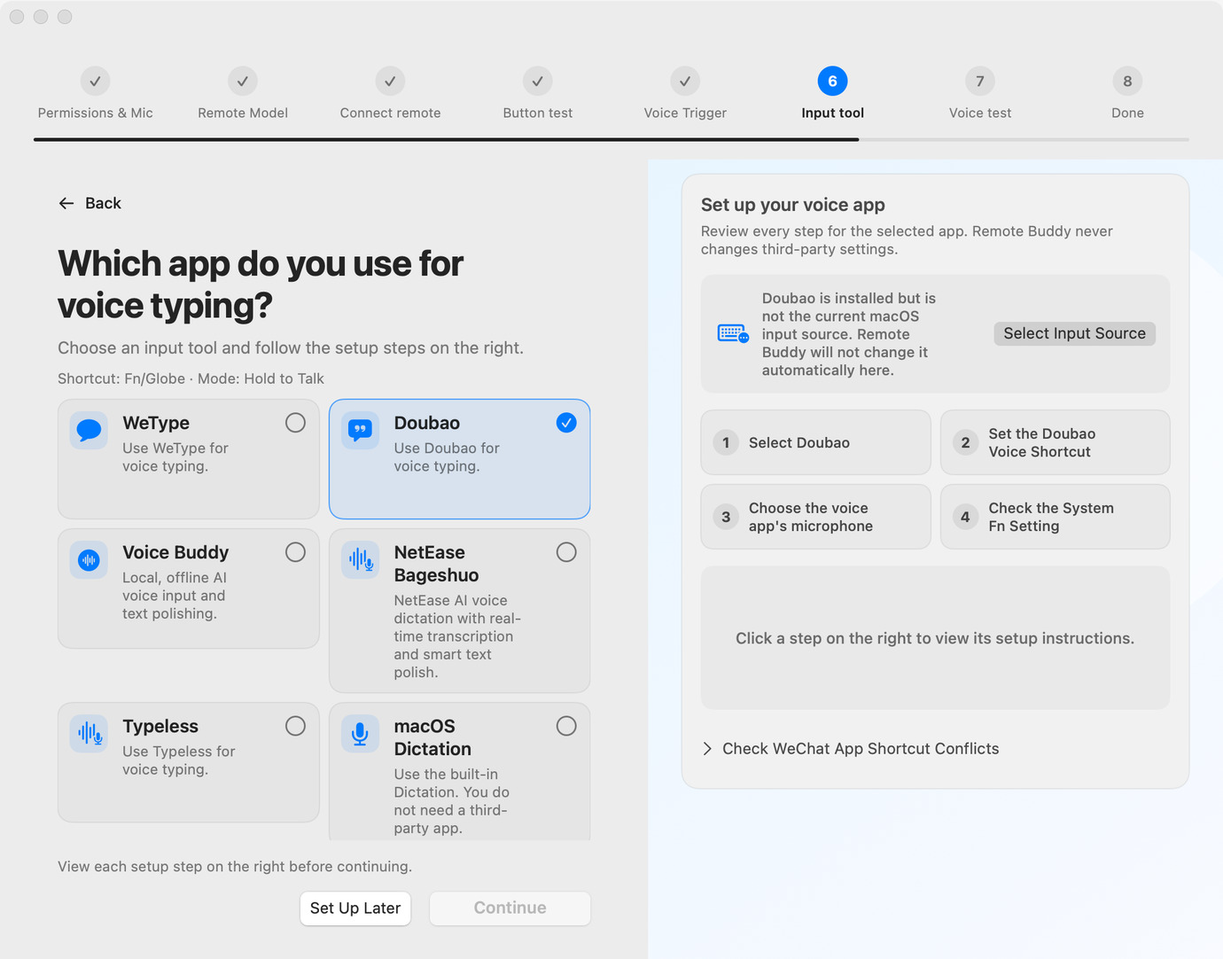
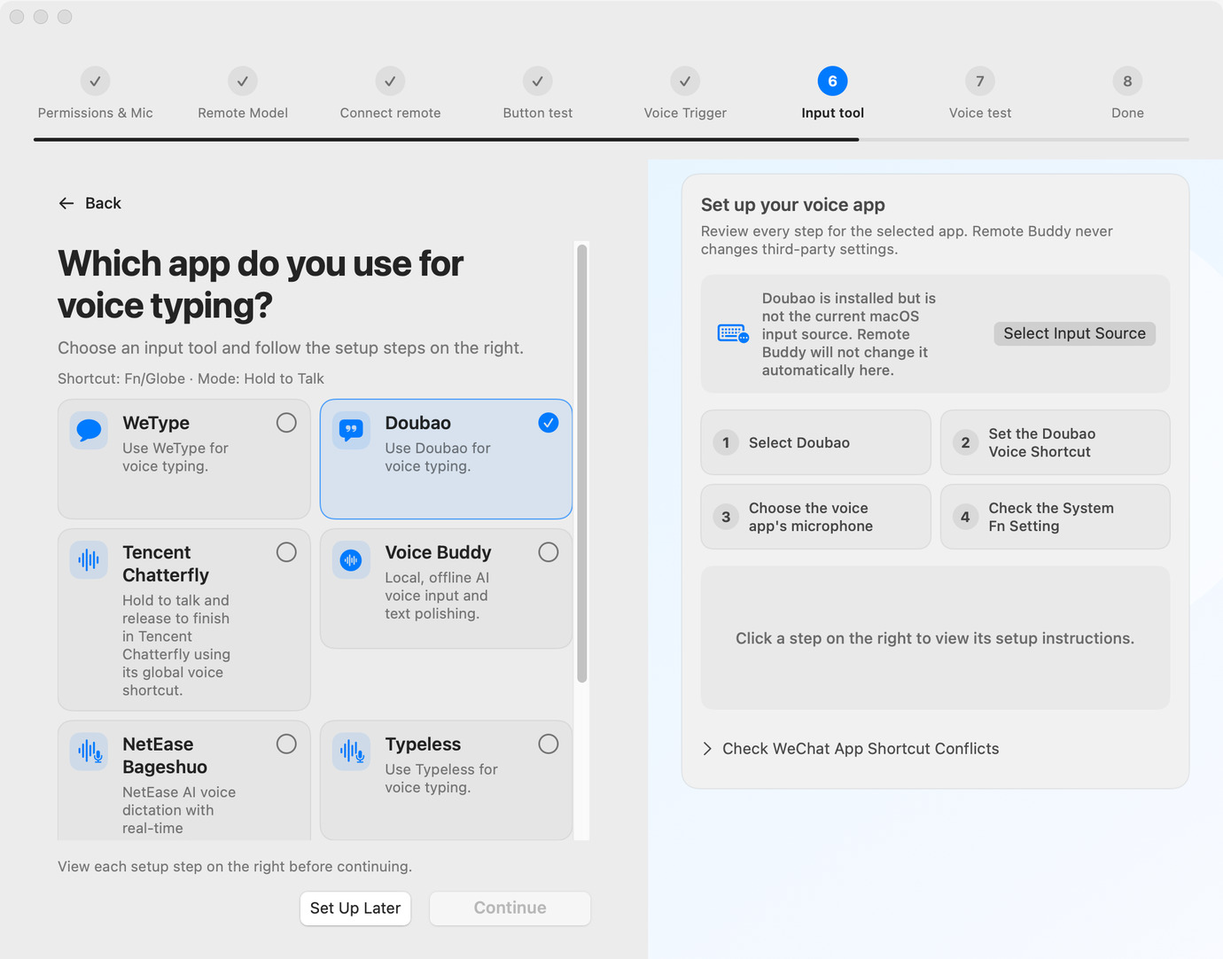
fix(integration): alert missing voice apps, add Voice Buddy link, and refresh screenshots (#210)
* fix(integration): alert when selected voice app is uninstalled

* feat(integration): add Voice Buddy homepage link to catalog card

* docs(pages): refresh integration screenshots and input tool copy

diff --git a/pages/index.html b/pages/index.html
@@ -85,7 +85,7 @@
   <div class="demo-links"><span>了解遥控搭子的功能与使用流程。</span><a class="text-link" href="assets/video/Remote_Buddy_Demo_Natural_zh-CN.mp4?v=261116screens" download>下载视频 ↓</a></div>
 </section>
 <section class="section wrap start" id="start"><div><p class="eyebrow">开始使用</p><h2 class="section-title">安装后，跟着向导开始。</h2><p>应用和虚拟麦克风驱动包含在同一个安装包中，可从<a href="downloads/index.html">官网镜像</a>或 <a href="https://github.com/zfdang/remote-buddy/releases/latest">GitHub Releases</a> 下载。</p><a class="text-link" href="#troubleshooting">查看常见问题排障 ↓</a></div><ol class="steps"><li><span>01</span><div><h3>安装并打开</h3><p>选择适合 Mac 芯片的安装包（PKG）完成安装，再从“应用程序”打开 Remote Buddy。</p></div></li><li><span>02</span><div><h3>授权与驱动就绪</h3><p>按向导授权蓝牙、输入监控和辅助功能，并确认 Remote Buddy Mic 虚拟麦克风驱动就绪。</p></div></li><li><span>03</span><div><h3>连接、选热键与配工具</h3><p>连接遥控器并测试按键，选择发送给输入工具的语音热键（Fn 或自定义快捷键）与点按方式，再在输入工具中完成配置。</p></div></li><li><span>04</span><div><h3>试说一句话</h3><p>通过向导中的语音测试使配置生效，点击要输入文字的位置，按住遥控器语音键说话、松开结束；点按模式则自动按热键开始与结束。</p></div></li></ol></section>
-<section class="section compatibility" id="compatibility"><div class="wrap"><p class="eyebrow">兼容范围</p><h2 class="section-title">查看设备与输入工具的适配情况。</h2><div class="compat-grid"><article><h3>遥控器</h3><div class="tools hardware"><span>小米蓝牙遥控器 2 / 2 Pro</span><span>T1 飞鼠键盘语音遥控器</span><span>Chromecast Voice Remote（G9N9N）</span><span>Google TV Streamer Voice Remote（GY3LE）</span><span>Apple Siri Remote</span></div><p>小米 2 / 2 Pro 与 T1 已适配；G9N9N 已验证版本支持语音输入及普通按键映射，版本识别见设备指南。GY3LE 与 Siri Remote 计划支持。</p><a class="text-link" href="device.html">查看各型号支持与选购指南 →</a></article><article><h3>输入工具</h3><div class="tools"><span>微信输入法</span><span>豆包输入法</span><span><a href="https://chatterfly.tencent.com/">腾讯Chatterfly</a></span><span><a href="https://myvoicebuddy.com/">Voice Buddy（语音搭子）</a></span><span>网易叭哥说</span><span>Typeless</span><span>macOS 听写</span><span>其他工具</span></div><p>选择对应工具，按向导配置 Remote Buddy Mic 和语音快捷键，再实际试说一句。</p><p class="muted">输入工具需要支持选择麦克风和设置语音快捷键。具体设置随工具版本而异，请通过向导试说确认。</p><div class="companion-box"><div class="companion-head"><span class="companion-badge">同系列自研工具</span><strong class="companion-name">Voice Buddy（语音搭子）</strong></div><p>基于 Apple Silicon 的 100% 本地离线 AI 语音输入与文本润色工具，声音与文字全程不上传云端。支持按住说话与点按切换，配合 Remote Buddy Mic 和 Fn 触发开箱即用。</p><a class="text-link" href="https://myvoicebuddy.com/">了解并下载 Voice Buddy ↗</a></div></article></div></div></section>
+<section class="section compatibility" id="compatibility"><div class="wrap"><p class="eyebrow">兼容范围</p><h2 class="section-title">查看设备与输入工具的适配情况。</h2><div class="compat-grid"><article><h3>遥控器</h3><div class="tools hardware"><span>小米蓝牙遥控器 2 / 2 Pro</span><span>T1 飞鼠键盘语音遥控器</span><span>Chromecast Voice Remote（G9N9N）</span><span>Google TV Streamer Voice Remote（GY3LE）</span><span>Apple Siri Remote</span></div><p>小米 2 / 2 Pro 与 T1 已适配；G9N9N 已验证版本支持语音输入及普通按键映射，版本识别见设备指南。GY3LE 与 Siri Remote 计划支持。</p><a class="text-link" href="device.html">查看各型号支持与选购指南 →</a></article><article><h3>输入工具</h3><div class="tools"><span>微信输入法</span><span>豆包输入法</span><span><a href="https://chatterfly.tencent.com/">腾讯Chatterfly</a></span><span><a href="https://myvoicebuddy.com/">Voice Buddy（语音搭子）</a></span><span>网易叭哥说</span><span>Typeless</span><span>macOS 听写</span><span>其他工具</span></div><p>支持系统输入法与全局快捷键语音工具：按向导配置 Remote Buddy Mic、语音热键与触发模式（按住或点按），再实际试说一句确认。</p><p class="muted">输入工具需支持选择麦克风并配置语音快捷键；腾讯Chatterfly 仅支持按住说话并需开启快捷键全局可用（无需切换系统输入法）。具体设置随工具版本而异，请通过向导试说确认。</p><div class="companion-box"><div class="companion-head"><span class="companion-badge">同系列自研工具</span><strong class="companion-name">Voice Buddy（语音搭子）</strong></div><p>基于 Apple Silicon 的 100% 本地离线 AI 语音输入与文本润色工具，声音与文字全程不上传云端。支持按住说话与点按切换，配合 Remote Buddy Mic 和 Fn 触发开箱即用。</p><a class="text-link" href="https://myvoicebuddy.com/">了解并下载 Voice Buddy ↗</a></div></article></div></div></section>
 <section class="section wrap troubleshooting" id="troubleshooting" aria-labelledby="troubleshooting-title">
   <p class="eyebrow">常见问题</p>
   <h2 class="section-title" id="troubleshooting-title">遇到按键或 Fn 语音没反应？先排查这几项。</h2>
@@ -101,7 +101,7 @@
   <details class="troubleshooting-card">
     <summary><span class="troubleshooting-question">选择 Fn 键触发语音，却没反应或被微信截获？检查微信全局快捷键占用。</span></summary>
     <div class="troubleshooting-body">
-      <p>macOS 版微信（WeChat App）可能在后台注册了全局 <strong>Fn</strong> 快捷键（例如全局语音输入或其他功能热键）。一旦被微信占用，按下遥控器发送的 <strong>Fn</strong> 会先被微信拦截，导致你选择的第三方语音输入工具（如豆包、微信输入法、Typeless 等）无法收到触发信号。</p>
+      <p>macOS 版微信（WeChat App）可能在后台注册了全局 <strong>Fn</strong> 快捷键（例如全局语音输入或其他功能热键）。一旦被微信占用，按下遥控器发送的 <strong>Fn</strong> 会先被微信拦截，导致你选择的第三方语音输入工具（如豆包、微信输入法、腾讯Chatterfly、Typeless 等）无法收到触发信号。</p>
       <ol><li>打开桌面端<strong>微信 → 设置 → 快捷键</strong>（部分版本在聊天/通用设置内）。</li><li>检查是否存在占用 <strong>Fn</strong>（或 <strong>🌐 地球键</strong>）的全局快捷键，尤其是语音输入相关热键。</li><li>如有冲突，请更换或<strong>仅清除冲突的 Fn 快捷键</strong>（无需修改微信其他快捷键）。</li><li>返回目标输入工具或遥控搭子的向导测试页，重新按下遥控器语音键试说一句。</li></ol>
       <p>如果无法取消微信对 Fn 的占用，也可以在“输入法集成 → 语音热键”中改用 <strong>Ctrl (⌃) + Option (⌥) + V</strong> 等其他组合快捷键。</p>
     </div>
@@ -140,6 +140,6 @@
 </section>
 </main>
 <footer class="wrap"><div><strong>Remote Buddy</strong><p>用遥控器，随手说。</p></div><div class="footer-links"><a href="downloads/index.html">官网下载</a><a href="device.html">支持设备</a><a href="https://github.com/zfdang/remote-buddy/releases">GitHub Releases</a><a href="https://github.com/zfdang/remote-buddy/blob/main/README.md">项目文档</a><a href="https://github.com/zfdang/remote-buddy/issues">反馈</a><a href="https://github.com/zfdang/remote-buddy/blob/main/LICENSE">GPL-3.0-only</a></div></footer>
-<script src="demo.js?v=261116screens"></script>
+<script src="demo.js?v=261118screens"></script>
 </body>
 </html>

diff --git a/pages/index.en.html b/pages/index.en.html
@@ -85,7 +85,7 @@
   <div class="demo-links"><span>An overview of Remote Buddy’s features and setup.</span><a class="text-link" href="assets/video/Remote_Buddy_Demo_Natural_zh-CN.mp4?v=261116screens" download>Download video ↓</a></div>
 </section>
 <section class="section wrap start" id="start"><div><p class="eyebrow">GET STARTED</p><h2 class="section-title">Install, then follow the setup guide.</h2><p>One installer includes the app and virtual microphone driver. Download via the <a href="downloads/index.en.html">website mirror</a> or <a href="https://github.com/zfdang/remote-buddy/releases/latest">GitHub Releases</a>.</p><a class="text-link" href="#troubleshooting">Common troubleshooting ↓</a></div><ol class="steps"><li><span>01</span><div><h3>Install and open</h3><p>Download the PKG for your Mac architecture, finish installation, and open Remote Buddy in Applications.</p></div></li><li><span>02</span><div><h3>Permissions &amp; audio driver</h3><p>Follow the guide for Bluetooth, Input Monitoring, Accessibility permissions, and Remote Buddy Mic readiness.</p></div></li><li><span>03</span><div><h3>Connect, shortcut, &amp; tool</h3><p>Pair your remote, test buttons, choose a voice shortcut (Fn/Globe or custom) and Hold/Tap mode, then configure your input tool to match.</p></div></li><li><span>04</span><div><h3>Try a sentence</h3><p>Pass the voice test to activate the setup, then click where you want to type and speak using the remote voice button.</p></div></li></ol></section>
-<section class="section compatibility" id="compatibility"><div class="wrap"><p class="eyebrow">COMPATIBILITY</p><h2 class="section-title">Check device and input tool compatibility.</h2><div class="compat-grid"><article><h3>Remotes</h3><div class="tools hardware"><span>Xiaomi Bluetooth Remote 2 / 2 Pro</span><span>T1 Air-Mouse &amp; Keyboard Voice Remote</span><span>Chromecast Voice Remote (G9N9N)</span><span>Google TV Streamer Voice Remote (GY3LE)</span><span>Apple Siri Remote</span></div><p>Xiaomi 2 / 2 Pro and T1 are supported. Validated G9N9N versions support voice input and button mapping; see the device guide for identification. GY3LE and Siri Remote support is planned.</p><a class="text-link" href="device_en.html">See support &amp; buying guide by model →</a></article><article><h3>Input Tools</h3><div class="tools"><span>WeType</span><span>Doubao</span><span><a href="https://chatterfly.tencent.com/">Tencent Chatterfly</a></span><span><a href="https://myvoicebuddy.com/en.html">Voice Buddy</a></span><span>NetEase Bageshuo</span><span>Typeless</span><span>macOS Dictation</span><span>Other tools</span></div><p>Choose your tool, follow the guide to configure Remote Buddy Mic and the voice shortcut, then try a spoken sentence.</p><p class="muted">Your tool needs microphone selection and a configurable voice shortcut. Settings vary by version; use the guide’s voice test to check your setup.</p><div class="companion-box"><div class="companion-head"><span class="companion-badge">COMPANION APP</span><strong class="companion-name">Voice Buddy</strong></div><p>Our 100% local, offline AI speech-to-text and text-polishing app for Apple Silicon—no cloud uploads required. Supports both Hold and Toggle modes and works out of the box with Remote Buddy Mic and Fn trigger.</p><a class="text-link" href="https://myvoicebuddy.com/en.html">Explore Voice Buddy (myvoicebuddy.com) ↗</a></div></article></div></div></section>
+<section class="section compatibility" id="compatibility"><div class="wrap"><p class="eyebrow">COMPATIBILITY</p><h2 class="section-title">Check device and input tool compatibility.</h2><div class="compat-grid"><article><h3>Remotes</h3><div class="tools hardware"><span>Xiaomi Bluetooth Remote 2 / 2 Pro</span><span>T1 Air-Mouse &amp; Keyboard Voice Remote</span><span>Chromecast Voice Remote (G9N9N)</span><span>Google TV Streamer Voice Remote (GY3LE)</span><span>Apple Siri Remote</span></div><p>Xiaomi 2 / 2 Pro and T1 are supported. Validated G9N9N versions support voice input and button mapping; see the device guide for identification. GY3LE and Siri Remote support is planned.</p><a class="text-link" href="device_en.html">See support &amp; buying guide by model →</a></article><article><h3>Input Tools</h3><div class="tools"><span>WeType</span><span>Doubao</span><span><a href="https://chatterfly.tencent.com/">Tencent Chatterfly</a></span><span><a href="https://myvoicebuddy.com/en.html">Voice Buddy</a></span><span>NetEase Bageshuo</span><span>Typeless</span><span>macOS Dictation</span><span>Other tools</span></div><p>Supports both input methods and global-shortcut voice apps: follow the guide to configure Remote Buddy Mic, your voice shortcut, and Hold/Tap mode, then try a spoken sentence.</p><p class="muted">Your tool needs microphone selection and a configurable voice shortcut. Tencent Chatterfly uses hold-to-talk with its global shortcut enabled and does not switch your system input source; settings vary by tool version.</p><div class="companion-box"><div class="companion-head"><span class="companion-badge">COMPANION APP</span><strong class="companion-name">Voice Buddy</strong></div><p>Our 100% local, offline AI speech-to-text and text-polishing app for Apple Silicon—no cloud uploads required. Supports both Hold and Toggle modes and works out of the box with Remote Buddy Mic and Fn trigger.</p><a class="text-link" href="https://myvoicebuddy.com/en.html">Explore Voice Buddy (myvoicebuddy.com) ↗</a></div></article></div></div></section>
 <section class="section wrap troubleshooting" id="troubleshooting" aria-labelledby="troubleshooting-title">
   <p class="eyebrow">TROUBLESHOOTING</p>
   <h2 class="section-title" id="troubleshooting-title">Buttons or Fn voice trigger not working? Check these first.</h2>
@@ -101,7 +101,7 @@
   <details class="troubleshooting-card">
     <summary><span class="troubleshooting-question">Chose Fn as your voice shortcut, but WeChat hijacks it? Clear WeChat’s global Fn shortcut.</span></summary>
     <div class="troubleshooting-body">
-      <p>The WeChat macOS desktop app can register <strong>Fn</strong> as a global shortcut (such as global voice input or another hotkey). While WeChat holds that global shortcut, pressing your remote’s voice button sends <strong>Fn</strong> to WeChat instead of your chosen input tool (Doubao, WeType, Typeless, etc.).</p>
+      <p>The WeChat macOS desktop app can register <strong>Fn</strong> as a global shortcut (such as global voice input or another hotkey). While WeChat holds that global shortcut, pressing your remote’s voice button sends <strong>Fn</strong> to WeChat instead of your chosen input tool (Doubao, WeType, Tencent Chatterfly, Typeless, etc.).</p>
       <ol><li>Open the <strong>WeChat desktop app → Settings → Shortcuts</strong>.</li><li>Check whether any global shortcut—especially a voice shortcut—is bound to <strong>Fn</strong> (or the <strong>🌐 Globe key</strong>).</li><li>If it conflicts, reassign or <strong>clear only the conflicting Fn shortcut</strong> (you can leave all other WeChat shortcuts as-is).</li><li>Return to your input tool or Buddy’s Voice Test step and press the remote voice button again.</li></ol>
       <p>If you prefer to keep WeChat’s Fn binding, switch Buddy’s voice shortcut in <strong>Input Tools → Voice Shortcut</strong> to another combination such as <strong>Ctrl (⌃) + Option (⌥) + V</strong>.</p>
     </div>
@@ -140,6 +140,6 @@
 </section>
 </main>
 <footer class="wrap"><div><strong>Remote Buddy</strong><p>Voice input, at the press of a button.</p></div><div class="footer-links"><a href="downloads/index.en.html">Website Download</a><a href="device_en.html">Supported Remotes</a><a href="https://github.com/zfdang/remote-buddy/releases">GitHub Releases</a><a href="https://github.com/zfdang/remote-buddy/blob/main/README.en.md">Docs &amp; References</a><a href="https://github.com/zfdang/remote-buddy/issues">Feedback</a><a href="https://github.com/zfdang/remote-buddy/blob/main/LICENSE">GPL-3.0-only</a></div></footer>
-<script src="demo.js?v=261116screens"></script>
+<script src="demo.js?v=261118screens"></script>
 </body>
 </html>

diff --git a/pages/demo.js b/pages/demo.js
@@ -62,9 +62,9 @@ button.addEventListener('blur', stop);
         title: '输入法集成',
         badge: '语音工具',
         windowTitle: '输入法与语音工具集成 · Remote Buddy',
-        src: 'assets/screenshots/integration-zh.jpg?v=261117screens',
-        alt: 'Remote Buddy 输入法与语音工具集成界面：当前语音触发方式及受支持语音工具的配置入口',
-        desc: '查看当前语音触发方式（热键与点按模式）和已选择的输入工具，通过向导调整热键、配置输入工具并完成语音测试生效。'
+        src: 'assets/screenshots/integration-zh.jpg?v=261118screens',
+        alt: 'Remote Buddy 输入法与语音工具集成界面：当前语音触发方式及微信输入法、豆包、腾讯Chatterfly、Voice Buddy 等受支持语音工具列表',
+        desc: '查看当前语音触发方式（热键与点按模式）和已选择的输入工具，支持微信输入法、豆包输入法、腾讯Chatterfly、Voice Buddy、网易叭哥说、Typeless、macOS 听写等；通过向导调整热键、配置工具并完成语音测试生效。'
       },
       {
         title: '按键映射',
@@ -144,9 +144,9 @@ button.addEventListener('blur', stop);
         title: '第 6 步 · 输入工具',
         badge: '向导 · 工具设置',
         windowTitle: '输入工具 · 首次使用向导',
-        src: 'assets/screenshots/wizard-tool-zh.jpg?v=261117screens',
-        alt: '首次使用向导：输入工具选择与图文分步设置指引，包含微信输入法、豆包等操作步骤',
-        desc: '选择输入法或听写工具，按右侧步骤完成麦克风与对应语音热键及录音模式设置；也可点击一键切换当前系统输入法。'
+        src: 'assets/screenshots/wizard-tool-zh.jpg?v=261118screens',
+        alt: '首次使用向导：输入工具选择与图文分步设置指引，包含微信输入法、豆包、腾讯Chatterfly 等工具',
+        desc: '选择输入法或语音工具（含微信输入法、豆包输入法、腾讯Chatterfly、Voice Buddy、网易叭哥说、Typeless、macOS 听写等），按右侧图文步骤配置麦克风与语音热键；需系统输入法切换的工具可一键切换。'
       },
       {
         title: '第 7 步 · 语音测试',
@@ -189,9 +189,9 @@ button.addEventListener('blur', stop);
         title: 'Voice Tools',
         badge: 'Integrations',
         windowTitle: 'Voice Tools Integration · Remote Buddy',
-        src: 'assets/screenshots/integration-en.jpg?v=261117screens',
-        alt: 'Remote Buddy Voice Tools interface: current voice trigger and setup guides for supported voice tools',
-        desc: 'Review the active voice trigger shortcut, tap mode, and selected input tool, then launch the integration wizard to customize hotkeys, configure your tool, and verify with a voice test.'
+        src: 'assets/screenshots/integration-en.jpg?v=261118screens',
+        alt: 'Remote Buddy Voice Tools interface: current voice trigger and supported tools including WeType, Doubao, Tencent Chatterfly, and Voice Buddy',
+        desc: 'Review the active voice trigger shortcut, tap mode, and selected tool (supporting WeType, Doubao, Tencent Chatterfly, Voice Buddy, NetEase Bageshuo, Typeless, macOS Dictation, and more), then launch the wizard to customize hotkeys and verify with a voice test.'
       },
       {
         title: 'Button Mapping',
@@ -271,9 +271,9 @@ button.addEventListener('blur', stop);
         title: 'Step 6 · Input Tool',
         badge: 'Wizard · Tool Setup',
         windowTitle: 'Input Tool · Setup Wizard',
-        src: 'assets/screenshots/wizard-tool-en.jpg?v=261117screens',
-        alt: 'Setup Wizard: Voice input tool selection with visual step-by-step setup guides',
-        desc: 'Choose your input method or dictation tool and follow the guided steps on the right to configure Remote Buddy Mic and your voice shortcut.'
+        src: 'assets/screenshots/wizard-tool-en.jpg?v=261118screens',
+        alt: 'Setup Wizard: Voice input tool selection (WeType, Doubao, Tencent Chatterfly, Voice Buddy, etc.) with visual step-by-step setup guides',
+        desc: 'Choose your input method or voice tool (WeType, Doubao, Tencent Chatterfly, Voice Buddy, NetEase Bageshuo, Typeless, macOS Dictation, or other tools) and follow the guided steps on the right to configure Remote Buddy Mic and your voice shortcut.'
       },
       {
         title: 'Step 7 · Voice Test',

diff --git a/Tests/RemoteBuddyTests/VoiceInputActivationTests.swift b/Tests/RemoteBuddyTests/VoiceInputActivationTests.swift
@@ -589,6 +589,63 @@ struct VoiceInputActivationTests {
             tool: .doubao, reason: .switchFailed))
     }
 
+    @Test func missingApplicationVoiceToolTriggersPromptAndBlocksAllTriggerModes() throws {
+        let (model, defaults, suite) = try makeModel()
+        defer { defaults.removePersistentDomain(forName: suite) }
+
+        var available = false
+        model.voiceToolAvailabilityChecker = { _ in available ? .available : .notInstalled }
+
+        let cases: [(OnboardingVoiceTool, VoiceKeyMode, Bool, Bool)] = [
+            (.chatterfly, .suggestedShortcut, false, true),
+            (.voiceBuddy, .function, false, false),
+            (.bageshuo, .function, true, true),
+            (.typeless, .function, true, true),
+        ]
+        for (tool, mode, tapMode, forceSoftware) in cases {
+            model.settings.setOnboardingVoiceTool(tool)
+            model.settings.voiceKeyMode = mode
+            model.settings.voiceFnTapModeEnabled = tapMode
+            model.unavailableVoiceToolPrompt = nil
+            var posted: [Bool] = []
+            var completionResult: Bool?
+            #expect(!model.updateVoiceKeyState(
+                streaming: true,
+                forceSoftware: forceSoftware,
+                owner: .bluetooth,
+                keySetter: { _, down in posted.append(down); return true },
+                completion: { completionResult = $0 }
+            ))
+            #expect(completionResult == false)
+            #expect(posted.isEmpty)
+            #expect(model.unavailableVoiceToolPrompt == BridgeAppModel.VoiceToolUnavailablePrompt(
+                tool: tool,
+                reason: .applicationUnavailable
+            ))
+        }
+
+        available = true
+        model.settings.setOnboardingVoiceTool(.chatterfly)
+        model.settings.voiceKeyMode = .suggestedShortcut
+        model.settings.voiceFnTapModeEnabled = false
+        model.unavailableVoiceToolPrompt = nil
+        var posted: [Bool] = []
+        #expect(model.updateVoiceKeyState(
+            streaming: true,
+            forceSoftware: true,
+            owner: .bluetooth,
+            keySetter: { _, down in posted.append(down); return true }
+        ))
+        #expect(posted == [true])
+        #expect(model.unavailableVoiceToolPrompt == nil)
+        #expect(model.updateVoiceKeyState(
+            streaming: false,
+            forceSoftware: true,
+            owner: .bluetooth,
+            keySetter: { _, down in posted.append(down); return true }
+        ))
+    }
+
     @Test func asyncActivationTimeoutNotifiesFailureAndCancellationStaysSilent() throws {
         let target = try #require(OnboardingVoiceTool.doubao.preferredInputSourceID)
         var source = "previous"
@@ -641,12 +698,21 @@ struct VoiceInputActivationTests {
                 prompt: .init(tool: .doubao, reason: .switchFailed),
                 using: localization
             )
+            let appToolTitle = localization.text(OnboardingVoiceTool.chatterfly.titleKey)
+            let appUnavailable = UnavailableVoiceToolAlertContent(
+                prompt: .init(tool: .chatterfly, reason: .applicationUnavailable),
+                using: localization
+            )
             for content in [unavailable, switchFailed] {
                 #expect(!content.title.isEmpty && !content.title.contains("%@") && content.title.contains(toolTitle))
                 #expect(!content.message.isEmpty && !content.message.contains("%@") && content.message.contains(toolTitle))
                 #expect(!content.openSettingsTitle.isEmpty && content.openSettingsTitle != "voice_tool.unavailable.alert.open_settings")
                 #expect(!content.cancelTitle.isEmpty && content.cancelTitle != "common.action.cancel")
             }
+            #expect(!appUnavailable.title.isEmpty && !appUnavailable.title.contains("%@") && appUnavailable.title.contains(appToolTitle))
+            #expect(!appUnavailable.message.isEmpty && !appUnavailable.message.contains("%@") && appUnavailable.message.contains(appToolTitle))
+            #expect(appUnavailable.message != "voice_tool.application_unavailable.alert.message")
+            #expect(appUnavailable.message != unavailable.message)
             #expect(unavailable.title != "voice_tool.unavailable.alert.title")
             #expect(unavailable.message != "voice_tool.unavailable.alert.message")
             #expect(switchFailed.title != "voice_tool.switch_failed.alert.title")

diff --git a/Sources/RemoteBuddy/Onboarding/OnboardingInputSourceSwitcher.swift b/Sources/RemoteBuddy/Onboarding/OnboardingInputSourceSwitcher.swift
@@ -26,13 +26,24 @@ enum OnboardingSystemFunctionKeyUsage: Equatable {
 }
 
 enum OnboardingInputSourceSwitcher {
+    static func validApplicationURL(
+        forBundleIdentifier bundleIdentifier: String,
+        lookup: (String) -> URL? = { NSWorkspace.shared.urlForApplication(withBundleIdentifier: $0) },
+        fileExists: (String) -> Bool = { FileManager.default.fileExists(atPath: $0) }
+    ) -> URL? {
+        guard let url = lookup(bundleIdentifier),
+              !url.pathComponents.contains(".Trash"),
+              fileExists(url.path) else {
+            return nil
+        }
+        return url
+    }
+
     static func applicationURL(for voiceTool: OnboardingVoiceTool) -> URL? {
         guard let bundleIdentifier = voiceTool.applicationBundleIdentifier else {
             return nil
         }
-        return NSWorkspace.shared.urlForApplication(
-            withBundleIdentifier: bundleIdentifier
-        )
+        return validApplicationURL(forBundleIdentifier: bundleIdentifier)
     }
 
     static func runtimeState(
@@ -97,9 +108,9 @@ enum OnboardingInputSourceSwitcher {
         }
 
         if let bundleIdentifier = voiceTool.applicationBundleIdentifier {
-            return NSWorkspace.shared.urlForApplication(
-                withBundleIdentifier: bundleIdentifier
-            ) == nil ? .notInstalled : .available
+            return validApplicationURL(forBundleIdentifier: bundleIdentifier) == nil
+                ? .notInstalled
+                : .available
         }
 
         return profile.installationProbe == .none ? .unknown : .available
@@ -113,7 +124,7 @@ enum OnboardingInputSourceSwitcher {
             inputSource(withID: id, includeAllInstalled: includeAllInstalled) != nil
         },
         hasApplication: (_ bundleIdentifier: String) -> Bool = { bundleIdentifier in
-            NSWorkspace.shared.urlForApplication(withBundleIdentifier: bundleIdentifier) != nil
+            validApplicationURL(forBundleIdentifier: bundleIdentifier) != nil
         }
     ) -> OnboardingVoiceToolAvailability {
         if let targetID = voiceTool.preferredInputSourceID {

diff --git a/Tests/RemoteBuddyTests/ProductBoundaryTests.swift b/Tests/RemoteBuddyTests/ProductBoundaryTests.swift
@@ -281,6 +281,21 @@ struct ProductBoundaryTests {
         #expect(probedApplication)
         #expect(OnboardingInputSourceSwitcher.integrationAvailability(for: tool,
             hasApplication: { _ in false }) == .notInstalled)
+        #expect(OnboardingInputSourceSwitcher.validApplicationURL(
+            forBundleIdentifier: "com.tencent.inputmethod.chatterfly",
+            lookup: { _ in URL(fileURLWithPath: "/Users/example/.Trash/Chatterfly.app") },
+            fileExists: { _ in true }
+        ) == nil)
+        #expect(OnboardingInputSourceSwitcher.validApplicationURL(
+            forBundleIdentifier: "com.tencent.inputmethod.chatterfly",
+            lookup: { _ in URL(fileURLWithPath: "/Applications/Chatterfly.app") },
+            fileExists: { _ in false }
+        ) == nil)
+        #expect(OnboardingInputSourceSwitcher.validApplicationURL(
+            forBundleIdentifier: "com.tencent.inputmethod.chatterfly",
+            lookup: { _ in URL(fileURLWithPath: "/Applications/Chatterfly.app") },
+            fileExists: { $0 == "/Applications/Chatterfly.app" }
+        )?.path == "/Applications/Chatterfly.app")
     }
 
     @Test func globalVoiceDiagnosticsIncludeChatterflyAndDoubaoOnly() {
@@ -309,6 +324,7 @@ struct ProductBoundaryTests {
             "settings.integration.supported_tools",
             "settings.integration.active_badge",
             "settings.integration.shortcut_title",
+            "onboarding.voice_tool.voice_buddy.website",
         ]
         for language in [AppLanguage.english, .simplifiedChinese] {
             localization.select(language)

diff --git a/Sources/RemoteBuddy/App/Coordination/BridgeAppModel.swift b/Sources/RemoteBuddy/App/Coordination/BridgeAppModel.swift
@@ -68,6 +68,7 @@ final class BridgeAppModel: ObservableObject, BluetoothRemoteBridgeDelegate {
     struct VoiceToolUnavailablePrompt: Equatable {
         enum Reason: Equatable {
             case unavailable
+            case applicationUnavailable
             case switchFailed
         }
 
@@ -132,6 +133,24 @@ final class BridgeAppModel: ObservableObject, BluetoothRemoteBridgeDelegate {
     )
 
     private var lastUnavailableVoiceToolPrompt: (tool: OnboardingVoiceTool, uptime: TimeInterval)?
+    var voiceToolAvailabilityChecker: (OnboardingVoiceTool) -> OnboardingVoiceToolAvailability = {
+        OnboardingInputSourceSwitcher.integrationAvailability(for: $0)
+    }
+
+    func ensureVoiceToolApplicationAvailable(
+        now: TimeInterval = ProcessInfo.processInfo.systemUptime
+    ) -> Bool {
+        let tool = settings.onboardingVoiceTool
+        guard tool.applicationBundleIdentifier != nil else { return true }
+        guard voiceToolAvailabilityChecker(tool) == .notInstalled else { return true }
+        presentUnavailableVoiceToolPromptIfNeeded(
+            for: tool,
+            reason: .applicationUnavailable,
+            now: now
+        )
+        AppLogger.shared.write("VOICE KEY rejected reason=voice_tool_not_installed tool=\(tool.rawValue)")
+        return false
+    }
 
     func handleInputSourcePreparationFailure(
         for tool: OnboardingVoiceTool,

diff --git a/Sources/RemoteBuddy/Settings/SettingsView.Integrations.swift b/Sources/RemoteBuddy/Settings/SettingsView.Integrations.swift
@@ -103,6 +103,12 @@ extension SettingsView {
             Text(localization.text(tool.detailKey))
                 .font(.caption).foregroundStyle(.secondary)
                 .fixedSize(horizontal: false, vertical: true)
+            if tool == .voiceBuddy {
+                Link(destination: AppLinks.voiceBuddyWebsite(for: localization.locale)) {
+                    Text(localization.text("onboarding.voice_tool.voice_buddy.website"))
+                        .font(.caption.weight(.semibold))
+                }
+            }
         }
         .frame(maxWidth: .infinity, maxHeight: .infinity, alignment: .topLeading)
         .padding(16)
@@ -117,7 +123,7 @@ extension SettingsView {
                     lineWidth: isSelected ? 1.5 : 1
                 )
         }
-        .accessibilityElement(children: .combine)
+        .accessibilityElement(children: tool == .voiceBuddy ? .contain : .combine)
         .accessibilityAddTraits(isSelected ? .isSelected : [])
     }
 }

diff --git a/Sources/RemoteBuddy/App/RemoteBuddyApp.swift b/Sources/RemoteBuddy/App/RemoteBuddyApp.swift
@@ -23,6 +23,9 @@ struct UnavailableVoiceToolAlertContent: Equatable {
         case .unavailable:
             titleKey = "voice_tool.unavailable.alert.title"
             messageKey = "voice_tool.unavailable.alert.message"
+        case .applicationUnavailable:
+            titleKey = "voice_tool.unavailable.alert.title"
+            messageKey = "voice_tool.application_unavailable.alert.message"
         case .switchFailed:
             titleKey = "voice_tool.switch_failed.alert.title"
             messageKey = "voice_tool.switch_failed.alert.message"

diff --git a/Sources/RemoteBuddy/Audio/BridgeAppModel.VoiceDelivery.swift b/Sources/RemoteBuddy/Audio/BridgeAppModel.VoiceDelivery.swift
@@ -169,6 +169,9 @@ extension BridgeAppModel {
         if !streaming {
             voiceSession.pendingKeyRelease = nil
             applicationIntegrationController.cancelPending()
+        } else if !ensureVoiceToolApplicationAvailable() {
+            completion(false)
+            return false
         }
         // Tap conversion owns the full shortcut transaction; do not also hold its keys.
         if streaming && settings.effectiveVoiceFnTapModeEnabled {

diff --git a/docs/provenance.md b/docs/provenance.md
@@ -20,4 +20,4 @@
 
 README 另使用维护者于 2026-11-16 提供的三张真实应用截图：`readme-connection.jpg`、`readme-integration.jpg` 和 `readme-mapping.jpg`，分别展示双遥控器连接、输入法集成和 G9N9N 按键映射。这三张 JPEG 通过 `jpegtran` 无损优化并移除元数据，保留原始像素和分辨率；README 的显示宽度为 640。它们与自动渲染的示例截图分开维护。
 
-腾讯Chatterfly 的两张浅色向导截图由维护者于 2026-11-18 提供，分别展示语音快捷键与全局可用设置、Remote Buddy Mic 选择。设置截图裁去含商标与账号的侧栏，最长边不超过 1600 像素，以压缩 JPEG 保存；深色界面回退到同一浅色截图。
+腾讯Chatterfly 的两张浅色向导截图由维护者于 2026-11-18 提供，分别展示语音快捷键与全局可用设置、Remote Buddy Mic 选择。设置截图裁去含商标与账号的侧栏，最长边不超过 1600 像素，以压缩 JPEG 保存；深色界面回退到同一浅色截图。网页的 `integration-*`、`wizard-tool-*` 与 README 的 `readme-integration.jpg` 于 2026-11-18 使用当前源码的 Debug App 重新渲染以包含腾讯Chatterfly。
